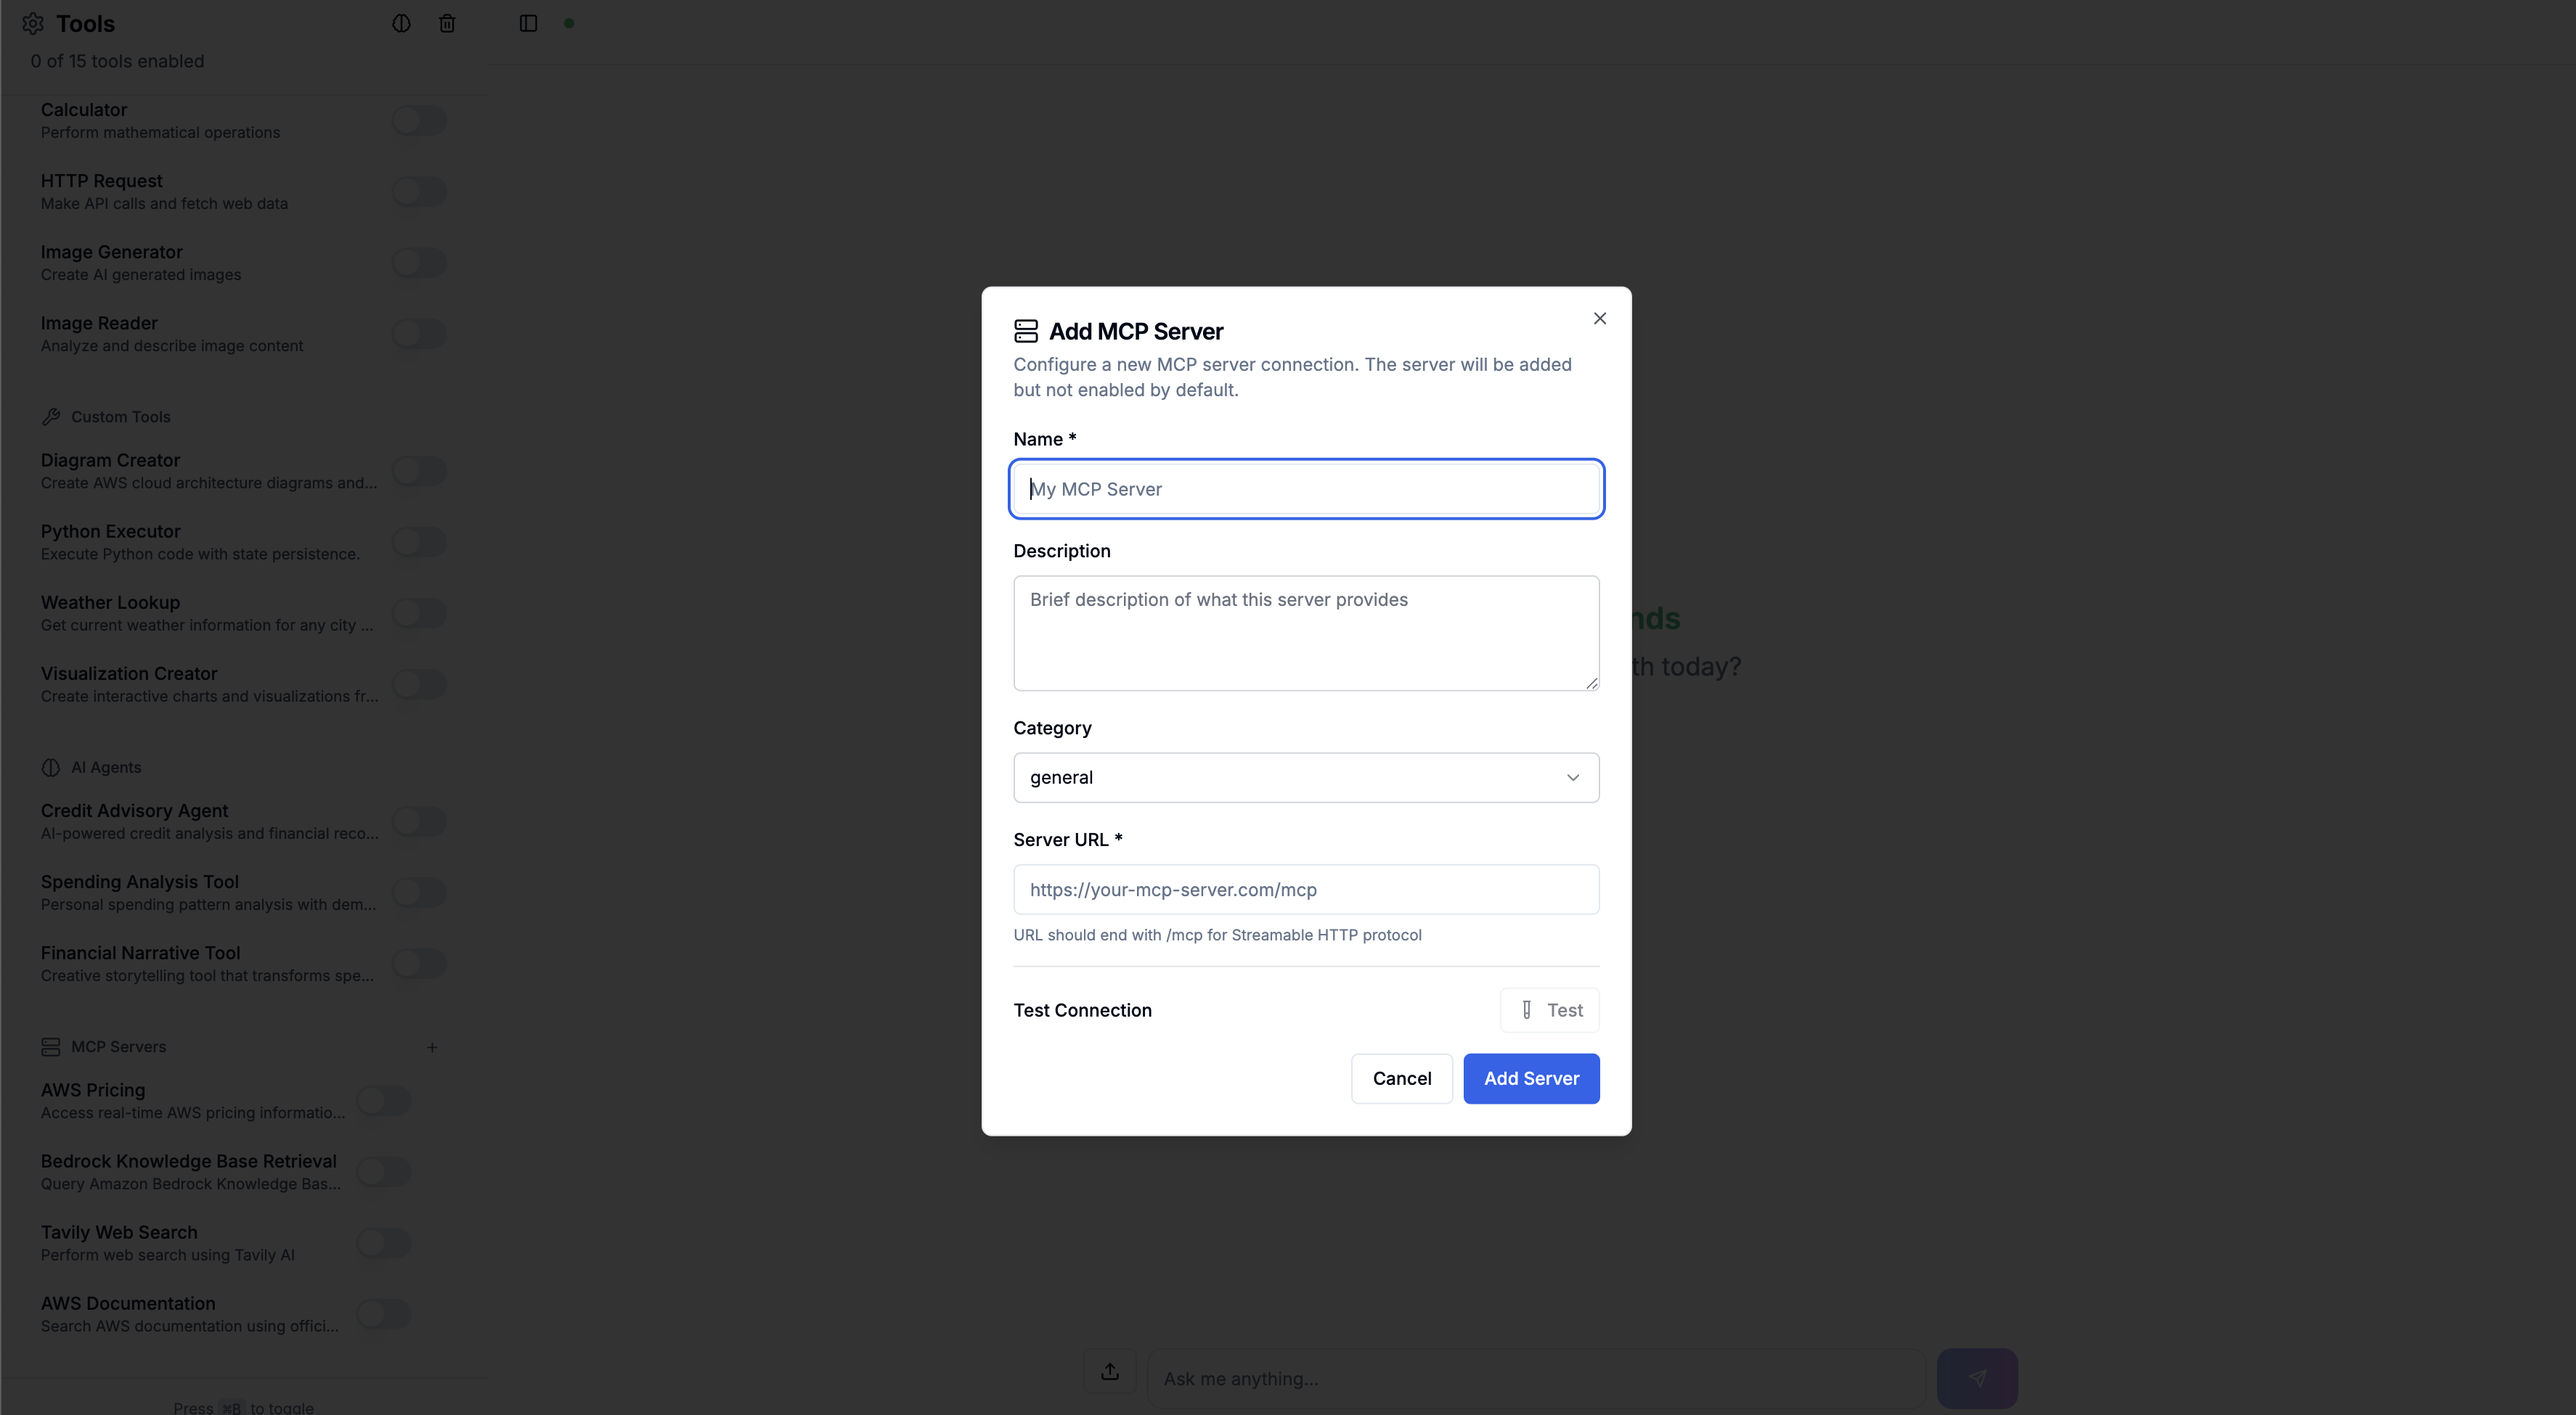
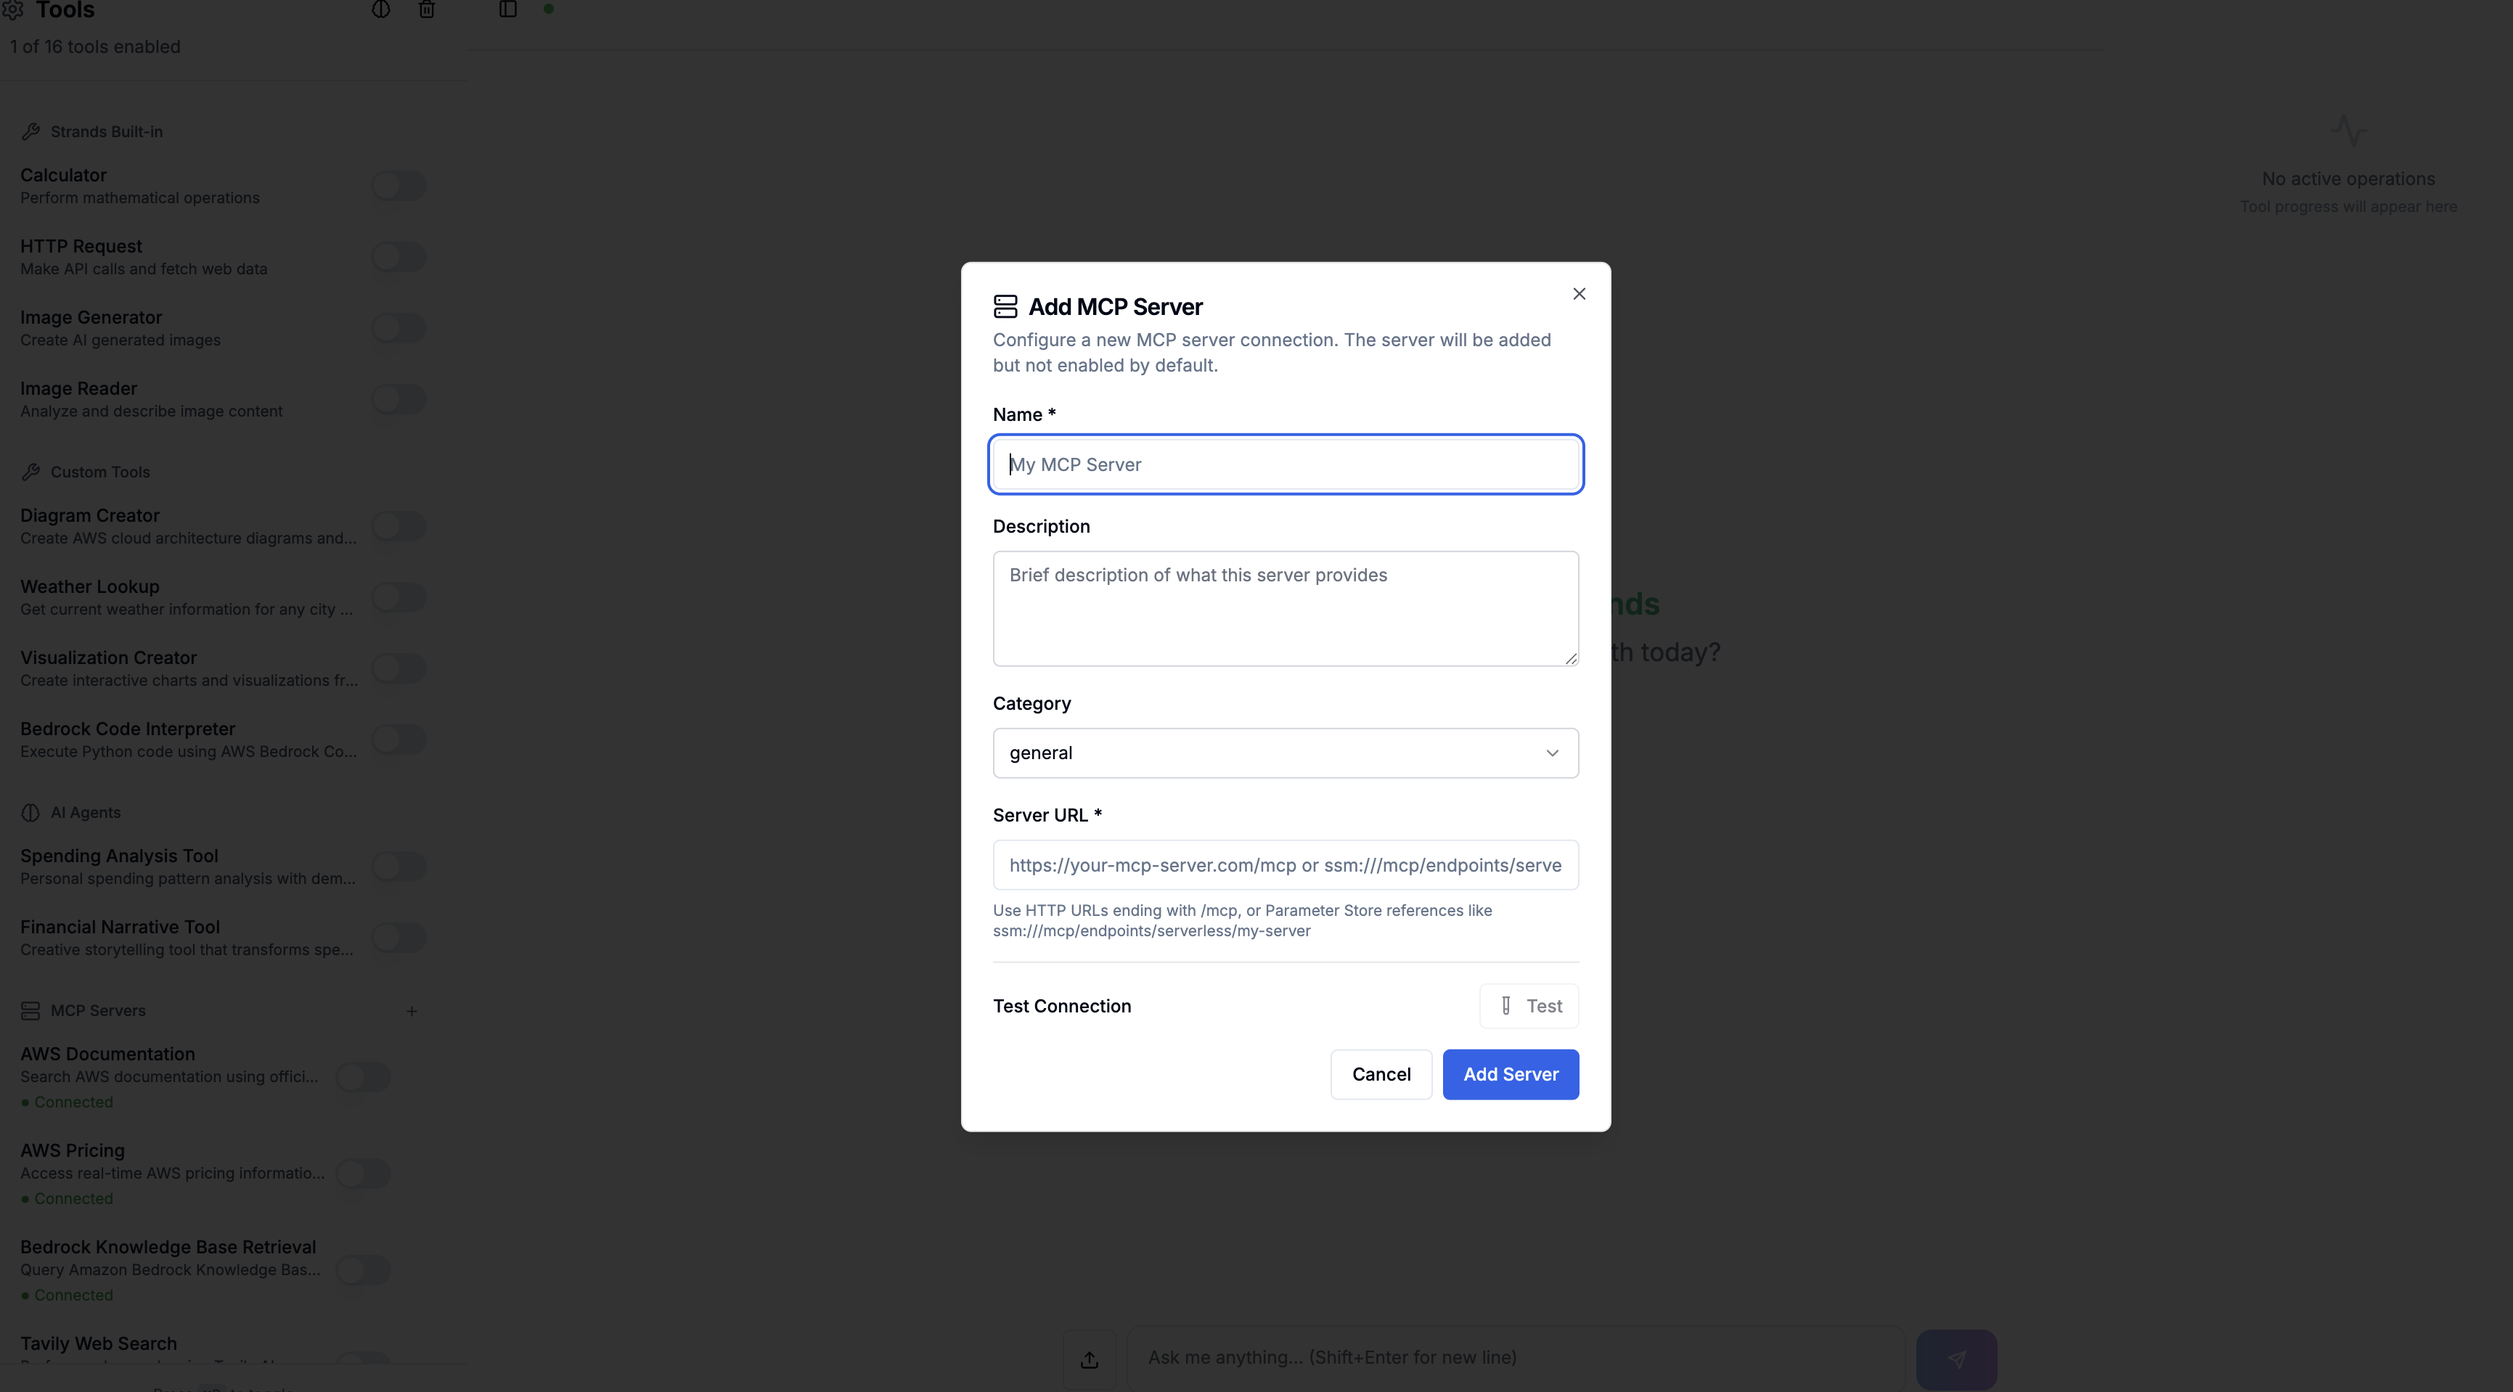
Initial Commit

diff --git a/chatbot-app/frontend/src/components/chat/ToolExecutionContainer.tsx b/chatbot-app/frontend/src/components/chat/ToolExecutionContainer.tsx
@@ -132,10 +132,10 @@ export const ToolExecutionContainer: React.FC<ToolExecutionContainerProps> = ({ 
           
           let filesAdded = 0;
           
-          // Download each file from backend session directory
+          // Download each file from backend session directory using static file serving
           for (const fileName of filesList) {
             try {
-              const fileUrl = getApiUrl(`files/download/${sessionId}/${toolUseId}/${fileName}`);
+              const fileUrl = getApiUrl(`output/sessions/${sessionId}/${toolUseId}/${fileName}`);
               const response = await fetch(fileUrl);
               
               if (response.ok) {

diff --git a/chatbot-app/backend/streaming/event_formatter.py b/chatbot-app/backend/streaming/event_formatter.py
@@ -137,12 +137,17 @@ class StreamEventFormatter:
                         pass
                     elif tool_name == 'run_python_code':
                         print(f"🎯 DETECTED PYTHON MCP TOOL: {tool_name}")
-                        # Use Base64 interception for file handling
-                        processed_text, file_info = StreamEventFormatter._handle_python_mcp_base64(tool_use_id, result_text)
-                        
-                        if file_info:
-                            print(f"📁 Processed and saved {len(file_info)} files for {tool_use_id}")
-                            result_text = processed_text
+                        # Get session_id from tool_info
+                        session_id = tool_info.get('session_id') if tool_info else None
+                        if session_id:
+                            # Use Base64 interception for file handling with session_id
+                            processed_text, file_info = StreamEventFormatter._handle_python_mcp_base64(tool_use_id, result_text, session_id)
+                            
+                            if file_info:
+                                print(f"📁 Processed and saved {len(file_info)} files for {tool_use_id}")
+                                result_text = processed_text
+                        else:
+                            print(f"⚠ No session_id found for Python MCP tool: {tool_use_id}")
                         StreamEventFormatter._save_agent_tool_result(tool_use_id, result_text)
                     else:
                         print(f"🔍 NON-MCP TOOL: {tool_name} (tool_type: {tool_info.get('tool_type') if tool_info else 'None'})")
@@ -230,7 +235,7 @@ class StreamEventFormatter:
     
 
     @staticmethod
-    def _handle_python_mcp_base64(tool_use_id: str, result_text: str) -> Tuple[str, List[Dict[str, Any]]]:
+    def _handle_python_mcp_base64(tool_use_id: str, result_text: str, session_id: str) -> Tuple[str, List[Dict[str, Any]]]:
         """
         Intercept Base64 file data from Python MCP results and save to local files
         Returns: (processed_text_without_base64, file_info_list)
@@ -246,29 +251,9 @@ class StreamEventFormatter:
             # Pattern to match Base64 data URLs: data:application/zip;base64,{base64_data}
             base64_pattern = r'<download[^>]*?>data:([^;]+);base64,([A-Za-z0-9+/=]+)</download>'
             
-            print(f"🔍 Base64 interception start for {tool_use_id}")
-            print(f"🔍 Result text length: {len(result_text)}")
-            print(f"🔍 Looking for pattern: {base64_pattern}")
-            print(f"🔍 First 500 chars of result: {result_text[:500]}")
-            
             # Check if pattern exists
             import re
             matches = re.findall(base64_pattern, result_text)
-            print(f"🔍 Found {len(matches)} Base64 matches")
-            
-            if matches:
-                print(f"🔍 First match MIME type: {matches[0][0]}")
-                print(f"🔍 First match Base64 length: {len(matches[0][1])}")
-            else:
-                print(f"🔍 No matches found - checking for similar patterns...")
-                download_patterns = re.findall(r'<download[^>]*?>(.*?)</download>', result_text, re.DOTALL)
-                print(f"🔍 Found {len(download_patterns)} download tags")
-                for i, pattern in enumerate(download_patterns[:2]):  # Show first 2
-                    print(f"🔍 Download {i+1}: {pattern[:100]}...")
-                
-                # Check for data: patterns
-                data_patterns = re.findall(r'data:([^;]+);base64,([A-Za-z0-9+/=]{10,100})', result_text)
-                print(f"🔍 Found {len(data_patterns)} data: patterns")
             
             def process_base64_match(match):
                 mime_type = match.group(1)
@@ -292,24 +277,12 @@ class StreamEventFormatter:
                     # Generate filename
                     filename = f"python_output_{len(file_info) + 1}{extension}"
                     
-                    # Create output directory
-                    from agent import get_global_stream_processor
-                    processor = get_global_stream_processor()
-                    session_id = None
-                    if processor and hasattr(processor, 'tool_use_registry'):
-                        tool_info = processor.tool_use_registry.get(tool_use_id)
-                        session_id = tool_info.get('session_id') if tool_info else None
-                    
+                    # Create output directory using provided session_id
                     if session_id:
-                        print(f"💾 Attempting to save Base64 file for session {session_id}")
                         try:
                             session_output_dir = Config.get_session_output_dir(session_id)
                             tool_dir = os.path.join(session_output_dir, tool_use_id)
-                            print(f"💾 Tool directory: {tool_dir}")
-                            print(f"💾 Current working directory: {os.getcwd()}")
-                            print(f"💾 Session output dir exists: {os.path.exists(session_output_dir)}")
                             os.makedirs(tool_dir, exist_ok=True)
-                            print(f"💾 Tool directory created successfully")
                         except Exception as dir_error:
                             print(f"❌ Error creating directory: {dir_error}")
                             return match.group(0)
@@ -317,24 +290,12 @@ class StreamEventFormatter:
                         # Save file
                         try:
                             file_path = os.path.join(tool_dir, filename)
-                            print(f"💾 Saving to: {file_path}")
                             with open(file_path, 'wb') as f:
                                 f.write(file_data)
-                            print(f"💾 File written successfully: {len(file_data)} bytes")
-                            
-                            # Verify file was saved
-                            if os.path.exists(file_path):
-                                actual_size = os.path.getsize(file_path)
-                                print(f"💾 File verified: {actual_size} bytes on disk")
-                            else:
-                                print(f"❌ File verification failed: {file_path} does not exist")
-                                return match.group(0)
                             
                             # Create download URL (relative to session output)
                             relative_path = os.path.relpath(file_path, Config.get_output_dir())
                             download_url = f"/files/{relative_path}"
-                            print(f"💾 Download URL: {download_url}")
-                            print(f"💾 File saved successfully: {filename} ({len(file_data)} bytes)")
                             
                             file_info.append({
                                 'filename': filename,
@@ -362,7 +323,8 @@ class StreamEventFormatter:
             # Process all Base64 matches
             processed_text = re.sub(base64_pattern, process_base64_match, result_text)
             
-            print(f"🔍 Processed Python MCP result: found {len(file_info)} files")
+            if file_info:
+                print(f"💾 Processed Python MCP result: found {len(file_info)} files")
             
         except Exception as e:
             print(f"❌ Error in _handle_python_mcp_base64: {e}")

diff --git a/README.md b/README.md
@@ -31,7 +31,7 @@ The platform supports both local development and cloud deployment with a compreh
 
 <img src="docs/images/architecture-overview.png" 
      alt="Architecture Overview" 
-     width="1000">
+     width="1200">
 
 ### 1) Cloud Deployment
 - **Frontend & Backend**: Deployed as containerized tasks on AWS Fargate
@@ -78,6 +78,10 @@ Business-specific tools tailored to your requirements:
 - **Visualization Creator**: Create interactive charts and visualizations from data
 - **Bedrock Code Interpreter**: Execute Python code using AWS Bedrock Code Interpreter with automatic file download support
 
+<img src="docs/images/custom-tools.png" 
+     alt="Custom Tools" 
+     width="600">
+
 ### MCP Servers
 Modular Context Protocol servers providing external integrations:
 
@@ -87,6 +91,11 @@ Modular Context Protocol servers providing external integrations:
 - **Bedrock Knowledge Base Retrieval**: Query Amazon Bedrock Knowledge Bases using natural language
 - **Tavily Web Search**: Perform web search using Tavily AI
 
+<img src="docs/images/mcp-server.png" 
+     alt="SubAgent" 
+     width="600">
+
+
 #### Stateful MCP Servers (ECS)
 - **Playwright Browser**: Browser automation and web scraping using Playwright
 - **Python Runtime**: Execute Python code safely in a sandboxed environment using Pyodide
@@ -94,7 +103,12 @@ Modular Context Protocol servers providing external integrations:
 ### Agents (Sub-Agents)
 Specialized AI agents for complex workflows:
 - **Spending Analysis Tool**: Personal spending pattern analysis with demographic comparisons and behavioral insights
-- **Financial Narrative Tool**: Creative storytelling tool that transforms spending data into humorous narratives with AI-generated images
+- **Financial Narrative Tool**: Creative storytelling tool that transforms spending data into narratives with AI-generated images
+
+<img src="docs/images/sub-agent.png" 
+     alt="SubAgent" 
+     width="600">
+
 
 ### Adding MCP Servers
 
